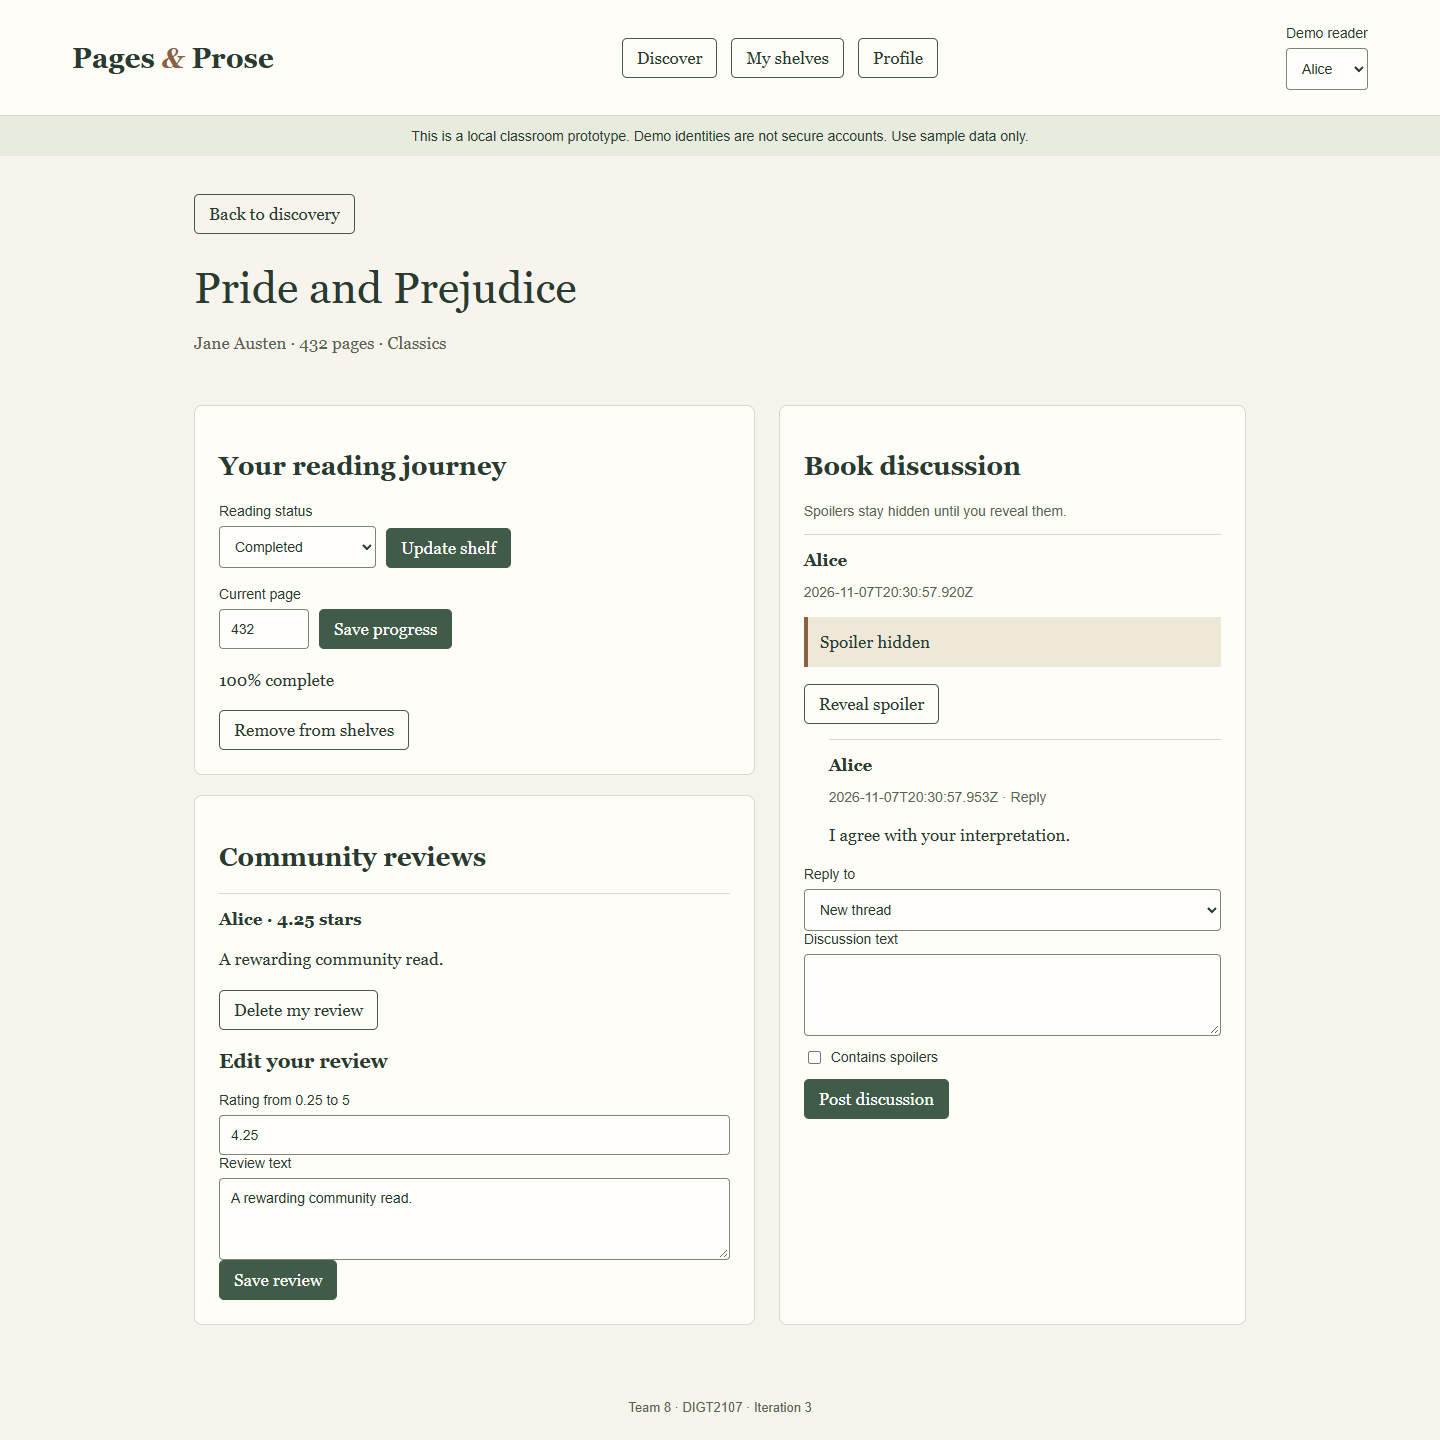
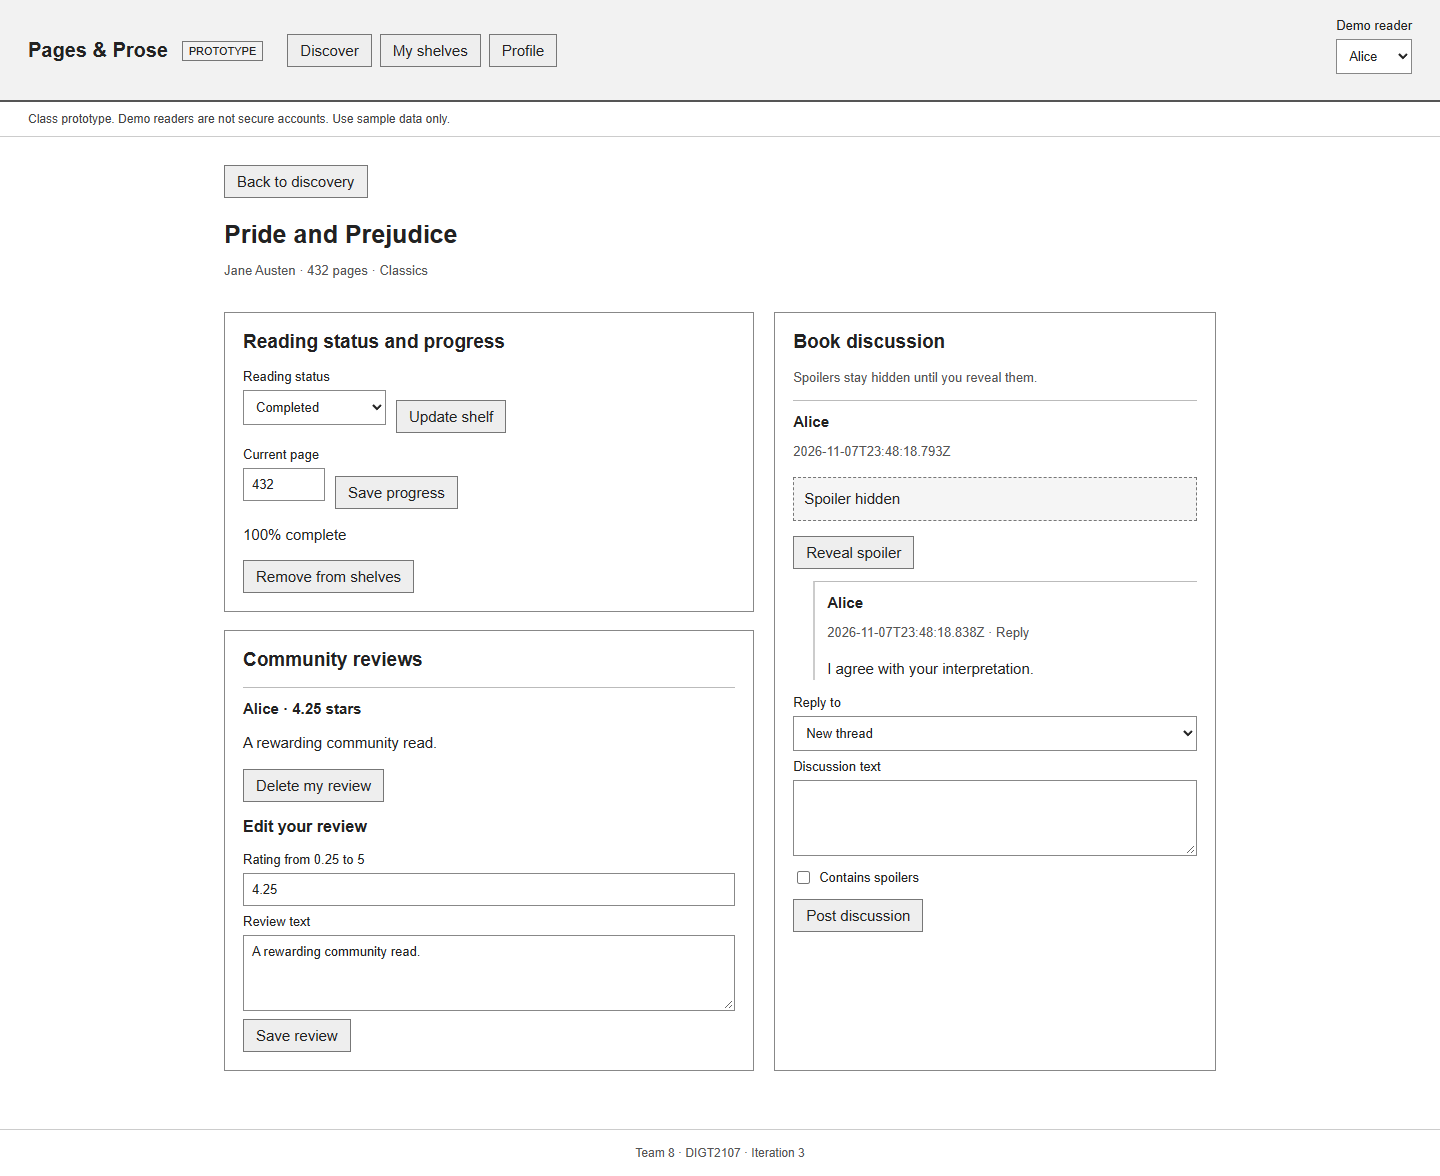
Simplify the app into a working wireframe prototype

diff --git a/styles.css b/styles.css
@@ -1,1 +1,1 @@
-:root{font-family:Georgia,'Times New Roman',serif;color:#293a31;background:#f7f4ed;font-size:17px}*{box-sizing:border-box}body{margin:0}header{display:flex;align-items:center;justify-content:space-between;gap:22px;padding:25px 5%;border-bottom:1px solid #d4d8cc;background:#fffdf8}.brand{font-size:28px;font-weight:bold;text-decoration:none;color:inherit}.brand i{color:#8b6043}nav{display:flex;gap:14px}button,select,input,textarea{font:inherit}button{border:1px solid #405c49;background:#405c49;color:white;border-radius:5px;padding:9px 14px;cursor:pointer}nav button,.secondary{background:transparent;color:#293a31}button:hover{filter:brightness(.92)}:focus-visible{outline:3px solid #a75b25;outline-offset:4px}aside{text-align:center;background:#e8ecdf;font:14px Arial,sans-serif;padding:12px}main{max-width:1100px;margin:38px auto;padding:0 24px}h1{font-size:44px;font-weight:normal;margin-bottom:10px}h2{font-size:26px}p{line-height:1.55}.intro{color:#57634f;margin-bottom:28px}.search{display:flex;gap:12px;align-items:end;margin:26px 0}label{display:flex;flex-direction:column;gap:7px;font:14px Arial,sans-serif}input,select,textarea{padding:11px;border:1px solid #7b8778;border-radius:4px;background:#fffefa;color:#24372d}textarea{width:100%;min-height:82px}.search label{flex:1}.grid{display:grid;grid-template-columns:repeat(auto-fit,minmax(200px,1fr));gap:20px}.card{padding:20px;background:#fffdf8;border:1px solid #d5d9ce;border-radius:8px}.cover{height:150px;display:flex;align-items:center;justify-content:center;text-align:center;padding:22px;color:#fff;font-size:23px;border-radius:3px;box-shadow:inset 7px 0 #ffffff25}.card h2{font-size:21px}.muted{font:14px Arial,sans-serif;color:#586450}.actions{display:flex;gap:10px;flex-wrap:wrap;align-items:end;margin:18px 0}.panel{background:#fffdf8;border:1px solid #d5d9ce;border-radius:8px;padding:24px;margin:20px 0}.split{display:grid;grid-template-columns:1.2fr 1fr;gap:24px}.notice{border-left:4px solid #8b6043;padding:12px;background:#eee8d9}#message:not(:empty){padding:14px;background:#e7eddc;border:1px solid #60704e;border-radius:4px}.post{border-top:1px solid #d5d9ce;margin-top:15px;padding-top:15px}.reply{margin-left:25px}.check{flex-direction:row;align-items:center;margin:12px 0}footer{text-align:center;margin:55px 0 25px;color:#586450;font:13px Arial,sans-serif}@media(max-width:750px){header{flex-wrap:wrap}.split{grid-template-columns:1fr}h1{font-size:34px}}
+:root{font:15px Arial,sans-serif;color:#222;background:white}*{box-sizing:border-box}body{margin:0}header{display:flex;flex-wrap:wrap;align-items:center;gap:24px;padding:18px 28px;border-bottom:2px solid #555;background:#f2f2f2}.brand{color:#222;font-size:20px;font-weight:bold;text-decoration:none}.brand i{font-style:normal}.prototype-label{display:inline-block;margin-left:8px;padding:3px 6px;border:1px solid #777;font-size:11px;font-weight:normal;vertical-align:middle;text-transform:uppercase}nav{display:flex;gap:8px;margin-right:auto}button,select,input,textarea{font:inherit}button{border:1px solid #777;border-radius:0;padding:7px 12px;background:#eee;color:#222;cursor:pointer}button:hover{background:#ddd}button:disabled{color:#777;cursor:default}:focus-visible{outline:3px solid #222;outline-offset:3px}aside{padding:10px 28px;border-bottom:1px solid #ccc;font-size:12px;color:#444}main{max-width:1040px;margin:28px auto;padding:0 24px}h1{font-size:25px;margin:22px 0 12px}h2{font-size:19px;margin-top:0}h3{font-size:16px}p{line-height:1.45}.intro,.muted{color:#555;font-size:13px}.search{display:flex;gap:10px;align-items:end;margin:22px 0}.search label{flex:1}label{display:flex;flex-direction:column;gap:6px;font-size:13px;margin-bottom:8px}input,select,textarea{padding:8px;border:1px solid #888;border-radius:0;color:#222;background:white}textarea{width:100%;min-height:76px}.grid{display:grid;grid-template-columns:repeat(auto-fit,minmax(200px,1fr));gap:14px}.card{border:1px solid #888;padding:14px}.card h2{margin:14px 0 8px;font-size:17px}.cover{display:flex;align-items:center;justify-content:center;height:90px;border:1px dashed #999;background:#f3f3f3;color:#666;font-size:12px}.actions{display:flex;gap:10px;flex-wrap:wrap;align-items:end;margin:14px 0}.panel{border:1px solid #888;padding:18px;margin:18px 0}.split{display:grid;grid-template-columns:1.2fr 1fr;gap:20px}.notice{border:1px dashed #777;padding:10px;background:#f5f5f5}#message:not(:empty){padding:10px;border:1px solid #555;background:#f2f2f2}.post{border-top:1px solid #bbb;padding-top:12px;margin-top:12px}.reply{margin-left:20px;border-left:2px solid #ccc;padding-left:12px}.check{flex-direction:row;align-items:center;margin:12px 0}footer{border-top:1px solid #ccc;padding:16px;margin-top:40px;text-align:center;font-size:12px;color:#555}@media(max-width:750px){header{gap:12px;padding:16px}nav{order:3;width:100%}.split{grid-template-columns:1fr}}

diff --git a/index.html b/index.html
@@ -1,5 +1,5 @@
 <!doctype html>
 <html lang="en"><head><meta charset="utf-8"><meta name="viewport" content="width=device-width,initial-scale=1"><title>Pages & Prose</title><link rel="stylesheet" href="/styles.css"></head>
-<body><header><a class="brand" href="#catalogue">Pages <i>&</i> Prose</a><nav aria-label="Main navigation"><button data-nav="catalogue">Discover</button><button data-nav="shelves">My shelves</button><button data-nav="profile">Profile</button></nav><label>Demo reader <select id="reader"><option value="">Guest</option><option value="alice">Alice</option><option value="bob">Bob</option></select></label></header>
-<aside>This is a local classroom prototype. Demo identities are not secure accounts. Use sample data only.</aside>
+<body><header><a class="brand" href="#catalogue">Pages <i>&</i> Prose <span class="prototype-label">Prototype</span></a><nav aria-label="Main navigation"><button data-nav="catalogue">Discover</button><button data-nav="shelves">My shelves</button><button data-nav="profile">Profile</button></nav><label>Demo reader <select id="reader"><option value="">Guest</option><option value="alice">Alice</option><option value="bob">Bob</option></select></label></header>
+<aside>Class prototype. Demo readers are not secure accounts. Use sample data only.</aside>
 <main><div id="message" role="status" aria-live="polite"></div><div id="view"></div></main><footer>Team 8 · DIGT2107 · Iteration 3</footer><script type="module" src="/src/ui.mjs"></script></body></html>
